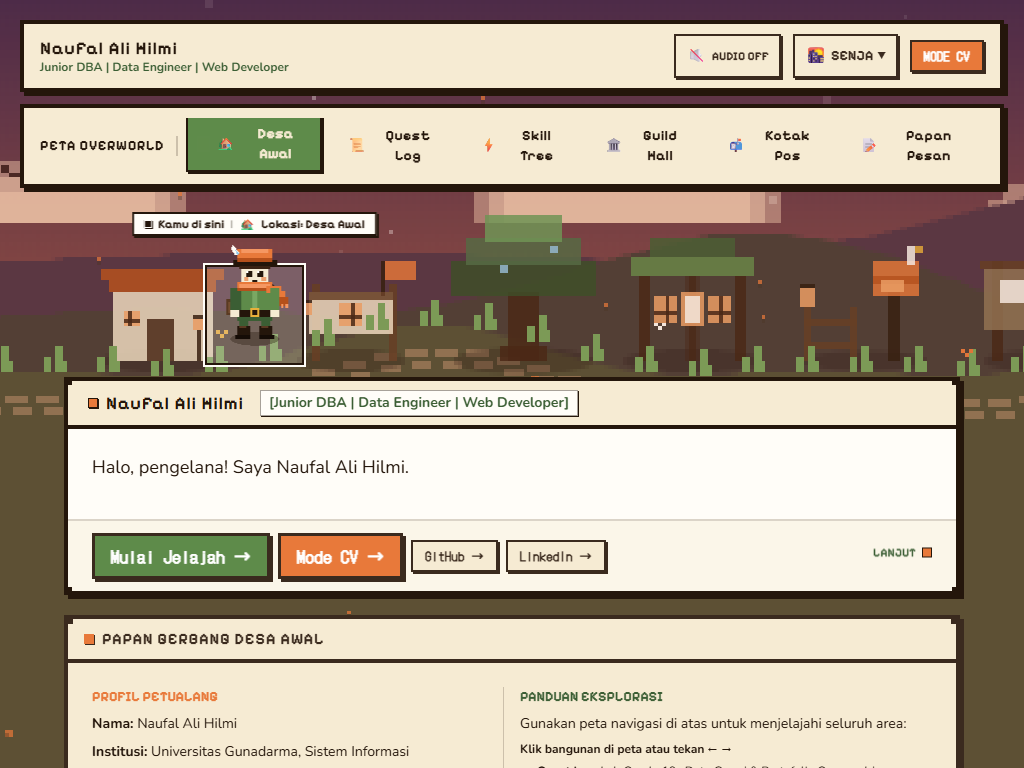
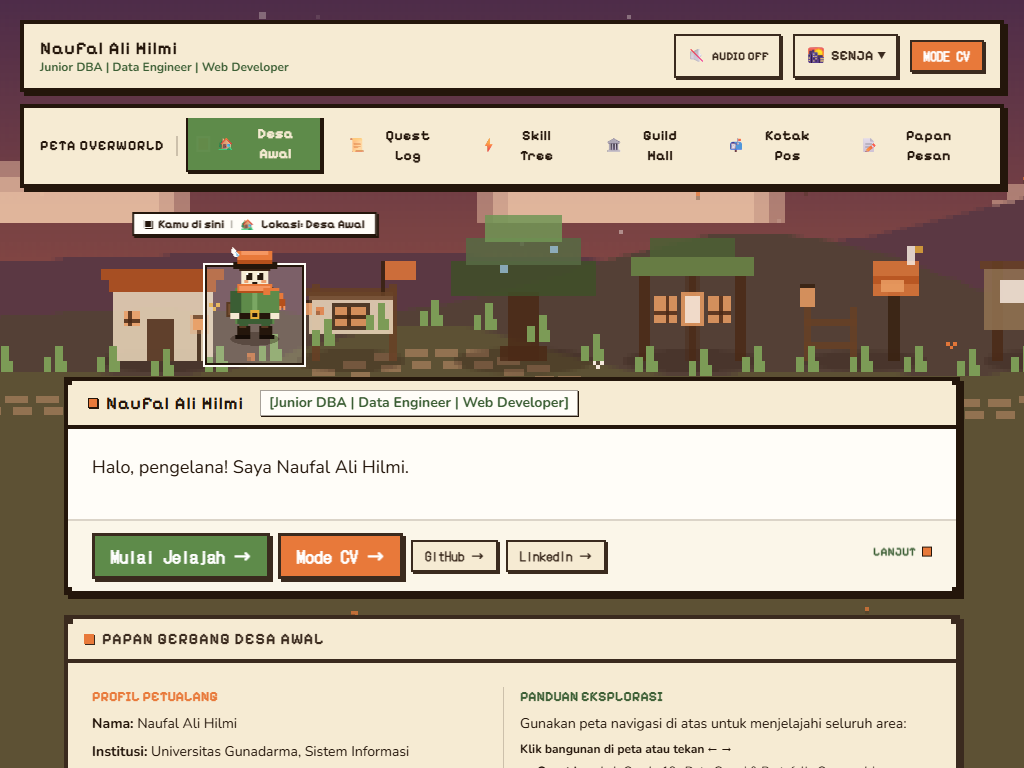
docs(seru2): simpan screenshot dan laporan verifikasi pencahayaan malam

diff --git a/docs/seru2/lighting-fix/REPORT.md b/docs/seru2/lighting-fix/REPORT.md
@@ -1,0 +1,65 @@
+# Laporan Verifikasi Pencahayaan Malam (Seru #2 Susulan)
+
+## Ringkasan Perbaikan
+Sesuai arahan, telah dilakukan penyempurnaan pencahayaan malam prosedural pada landmark bangunan dan pembersihan selector waktu:
+
+1. **Jendela Quest Log (Rumah) di Malam Hari**:
+   - Dinding kabin Quest Log pada fase malam dibuat dengan warna kayu gelap (`#3A2012`), memberikan kontras tinggi terhadap jendela yang menyala di latar gelap.
+   - Jendela berukuran $10 \times 7\text{ px}$ diisi kaca amber hangat (`#E8B03A`), inti cahaya lilin krem terang (`#FFFDF8` / `#F6EBD3` dengan flicker bertahap), bingkai kusen kayu gelap (`#24160B`), serta tumpahan cahaya lembut di sekitarnya dan pantulan halus di tanah.
+   - Lentera tiang di sebelah kiri Quest Log dilengkapi dengan *radial gradient glow* dan titik api hangat.
+
+2. **Lentera Desa Awal (Hero Village)**:
+   - Lentera tiang kayu dilengkapi gradasi radial lembut (*soft ambient glow*, radius 8px) dari inti terang (`rgba(255, 253, 248, 0.75)`) menuju amber lembut (`rgba(232, 176, 58, 0.45)`) hingga transparan.
+   - Menghasilkan efek *cahaya lembut di sekitarnya* dan pantulan cahaya halus di permukaan tanah tanpa keluar dari bounding box landmark.
+   - Jendela rumah Desa Awal menyala hangat dengan aksen kusen malam.
+
+3. **Kotak Pos (Contact Post)**:
+   - Lentera tiang pagar dilengkapi *soft ambient glow* radial.
+   - Kotak pos diberi titik lampu kecil hangat (*warm indicator light*) di bagian atas dan cahaya hangat pada celah surat masuk.
+
+4. **Guild Hall & Papan Pesan**:
+   - Dua bay window Guild Hall menyala amber/krem hangat dengan kusen kayu malam.
+   - Papan pesan dilengkapi lentera baca malam.
+   - Skill tree memancarkan partikel starlight lembut di malam hari.
+
+5. **Pembersihan Selector Waktu di Header**:
+   - Label teks dan badge "SIMULASI" telah dihapus dari tombol header dan menu dropdown.
+   - Dimensi tombol dan tap target tetap identik (min. 44×44 px), sejajar rapi dengan tombol Mode CV.
+
+---
+
+## Verifikasi Posisi & Selisih Piksel (0px Drift Guarantee)
+
+Berdasarkan pengukuran otomatis melalui Puppeteer pada build produksi:
+
+### Desktop (1280×720 & 1024×768)
+
+| Viewport | Fase | Dialog Top | CTA Top | Landmark Ground Y | Drift Dialog | Drift CTA |
+| :--- | :--- | :--- | :--- | :--- | :--- | :--- |
+| **1280×720** | Siang | 376.59 px | 532.59 px | 342.00 px | **0.00 px** | **0.00 px** |
+| **1280×720** | Malam | 376.59 px | 532.59 px | 342.00 px | **0.00 px** | **0.00 px** |
+| **1280×720** | Senja | 376.59 px | 532.59 px | 342.00 px | **0.00 px** | **0.00 px** |
+| **1024×768** | Siang | 376.59 px | 532.59 px | 365.00 px | **0.00 px** | **0.00 px** |
+| **1024×768** | Malam | 376.59 px | 532.59 px | 365.00 px | **0.00 px** | **0.00 px** |
+| **1024×768** | Senja | 376.59 px | 532.59 px | 365.00 px | **0.00 px** | **0.00 px** |
+
+Seluruh landmark berdiri tegak tepat di garis tanah (`bottom: 342px` di 1280×720, `bottom: 365px` di 1024×768) dengan selisih posisi vertikal **0.00 px** dari baseline.
+
+---
+
+## Dampak pada Mobile
+
+- **Perubahan Canvas Shared**: Canvas latar dipakai bersama antara desktop dan mobile. Perubahan pencahayaan (warna jendela dan glow lentera) otomatis tampil di mobile tanpa mengubah ukuran atau tata letak elemen mobile apa pun.
+- **Ukuran Tap Target**: Tombol pemilih waktu di header mobile berukuran $45.97 \times 44\text{ px}$ (memenuhi standar aksesibilitas minimum $44 \times 44\text{ px}$) dan sejajar dengan tombol CV ($44 \times 44\text{ px}$).
+- **Layout Shift**: **0 px**.
+
+---
+
+## File Screenshot Terkait
+
+- Desktop 1280×720 Malam: `docs/seru2/lighting-fix/desktop-1280x720-night.png`
+- Desktop 1280×720 Siang: `docs/seru2/lighting-fix/desktop-1280x720-day.png`
+- Desktop 1280×720 Senja: `docs/seru2/lighting-fix/desktop-1280x720-dusk.png`
+- Desktop 1024×768 Malam: `docs/seru2/lighting-fix/desktop-1024x768-night.png`
+- Mobile 390×844 Malam: `docs/seru2/lighting-fix/mobile-390x844-night.png`
+- Data Pengukuran Mentah: `docs/seru2/lighting-fix/lighting-fix-report.json`
